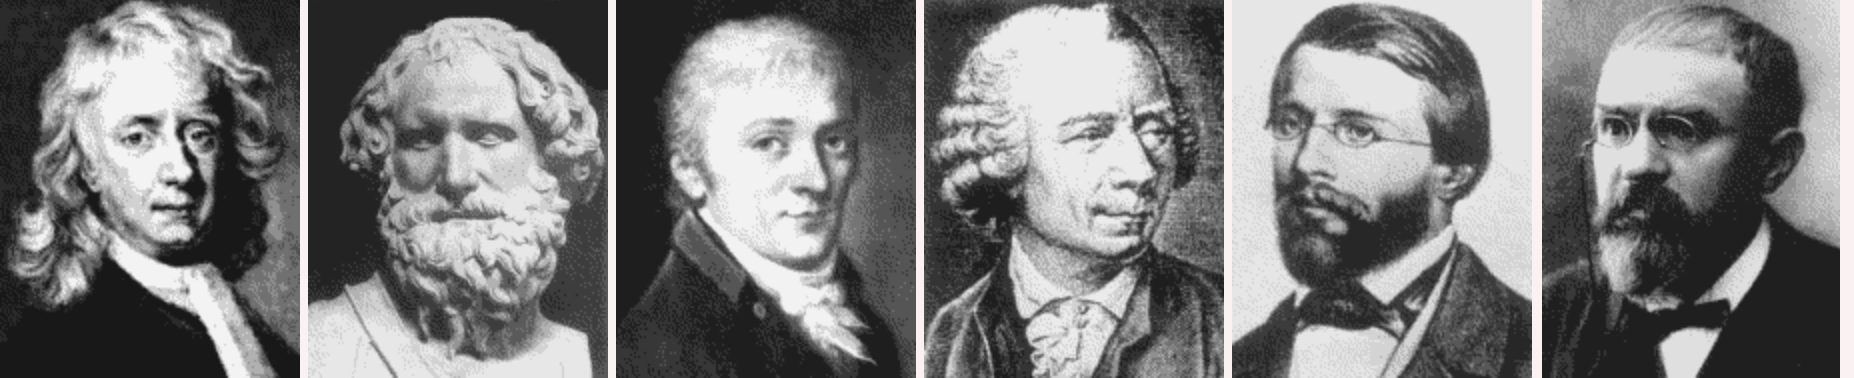
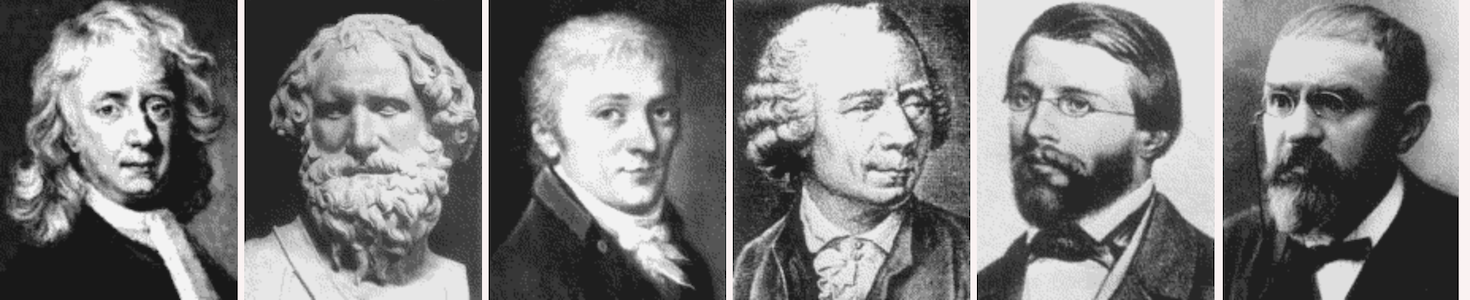
Math picture

diff --git a/_layouts/default.html b/_layouts/default.html
@@ -19,7 +19,7 @@
   </head>
   <body>
       <div id="header">
-      <img src="Math.png" class="header-large">
+	      <img src="Math.png">
       </div><!-- end header -->
 
     <div class="wrapper">
